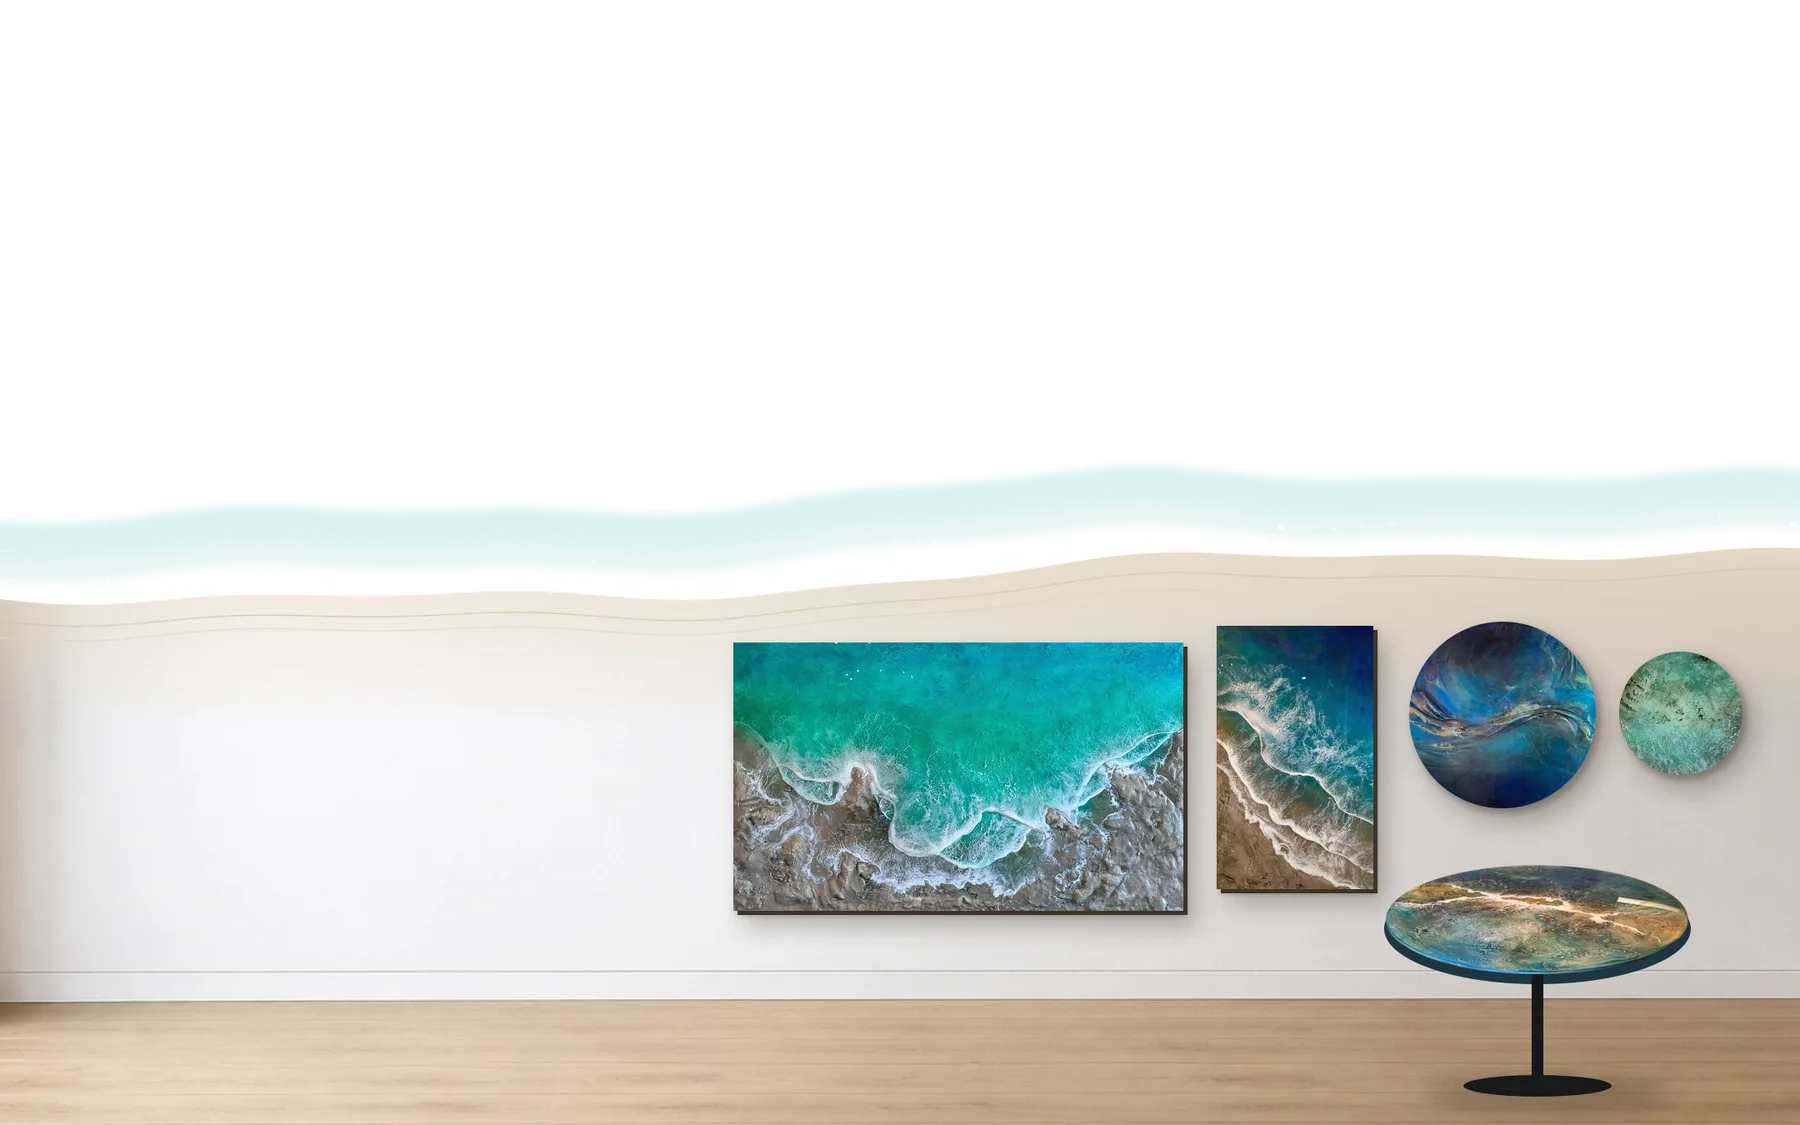
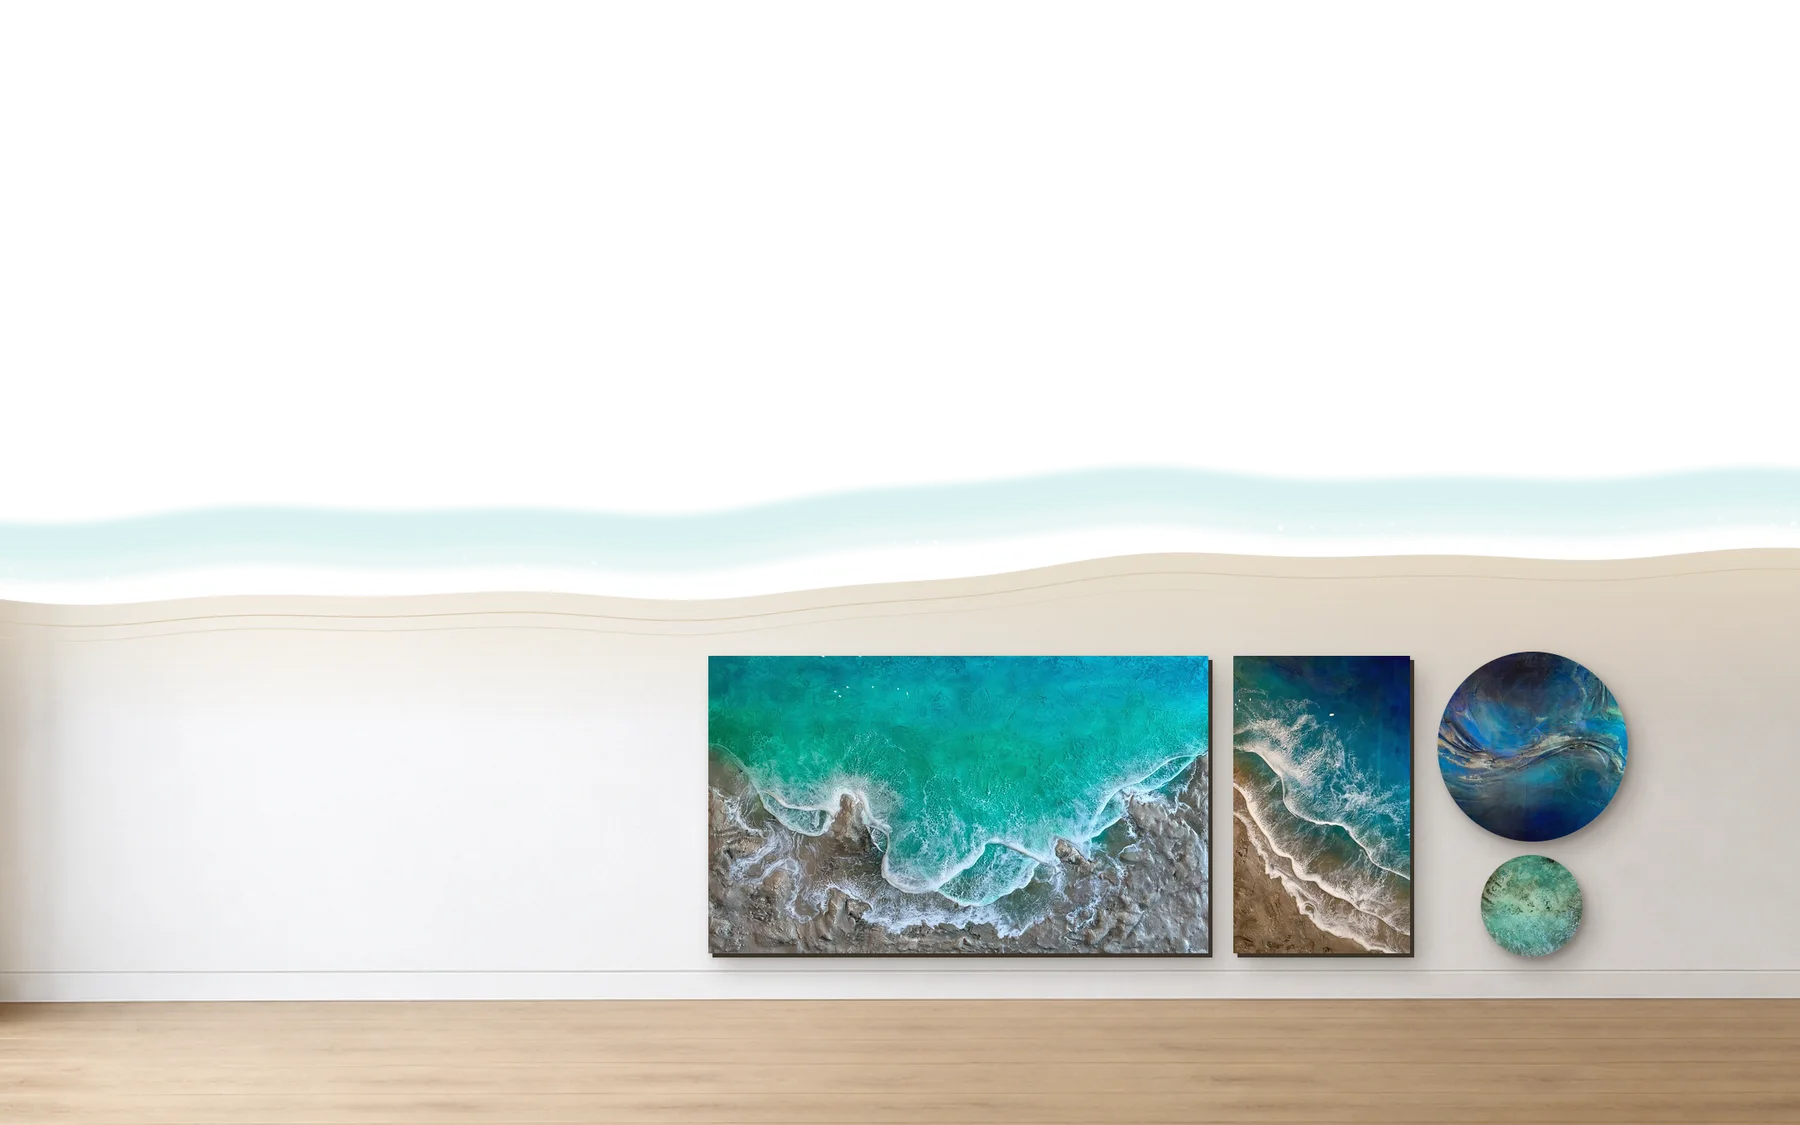
ヒーローからテーブルと帯を外して配置を調整

Changed region(s): [[0.3733, 0.5289, 0.9956, 0.9956]]

diff --git a/assets/css/style.css b/assets/css/style.css
@@ -26,10 +26,8 @@ img{display:block;max-width:100%;height:auto}a{color:inherit;text-decoration:non
 .hero__t1{position:absolute;left:5vw;top:7.4vw;color:#fff;animation:up 1.2s .4s both}
 .hero h1{font-size:clamp(12px,1.04vw,18px);letter-spacing:.1em;line-height:1.5;margin-bottom:.9vw}
 .hero__copy{font-size:clamp(28px,3.06vw,56px);font-weight:600;line-height:1.3;letter-spacing:.07em}
-.hero__t2{position:absolute;left:5vw;top:34.5vw;animation:up 1.2s 1.1s both}
-.hero__tag{display:inline-flex;align-items:center;gap:.8vw;background:#fff;color:var(--teal);padding:.55vw 2vw .55vw 1.4vw;font-size:clamp(14px,1.39vw,24px);font-weight:600;letter-spacing:.1em;line-height:1.6}
-.hero__tag span{width:0;height:0;border-left:1.3vw solid var(--teal);border-top:.85vw solid transparent;border-bottom:.85vw solid transparent}
-.hero__copy2{font-size:clamp(22px,2.36vw,42px);font-weight:600;line-height:1.42;letter-spacing:.08em;margin-top:1.6vw}
+.hero__t2{position:absolute;left:5vw;top:38vw;animation:up 1.2s 1.1s both}
+.hero__copy2{font-size:clamp(22px,2.5vw,44px);font-weight:600;line-height:1.44;letter-spacing:.08em}
 .hero__lead{font-size:clamp(11.5px,.98vw,17px);line-height:1.78;margin:.9vw 0 1.3vw}
 .btn--hero{background:var(--teal);color:#fff;min-width:200px}.btn--hero:hover{background:var(--deep);border-color:var(--deep);color:#fff}
 .hd .logo{color:#fff}.nav{color:#fff}.nav .btn{background:#fff0;border-color:#fff;color:#fff}.nav .btn:hover{background:#fff;color:var(--teal)}
@@ -76,7 +74,7 @@ figure{margin:0}figcaption{font:500 12px/2 var(--en);letter-spacing:.27em;color:
   .hd{padding:24px 24px 0}.logo b{font-size:24px}.burger{display:block;position:relative;z-index:40}
   .nav{position:fixed;inset:0;background:#fffffff5;flex-direction:column;justify-content:center;gap:26px;font-size:16px;opacity:0;visibility:hidden;transition:opacity .3s;z-index:30}.nav.is-open{opacity:1;visibility:visible}
   .burger[aria-expanded=true] span{background:var(--deep)}.burger[aria-expanded=true] span:first-child{transform:translateY(5px) rotate(20deg)}.burger[aria-expanded=true] span:last-child{transform:translateY(-5px) rotate(-20deg)}
-  .sp{display:inline}.hero{height:218vw;min-height:0}.hero__t1{left:24px;top:20vw}.hero h1{font-size:12.5px;margin-bottom:6px}.hero__copy{font-size:min(5.6vw,22px);letter-spacing:.02em;white-space:nowrap}.hero__t2{left:24px;right:24px;top:87.5vw;bottom:4vw;display:flex;flex-direction:column;align-items:flex-start}.hero__tag{gap:10px;font-size:16px;padding:6px 22px 6px 16px}.hero__tag span{border-left-width:14px;border-top-width:9px;border-bottom-width:9px}.hero__copy2{font-size:min(5.6vw,22px);letter-spacing:.03em;margin-top:10px;white-space:nowrap}.hero__lead{display:none}.btn--hero{margin-top:auto;width:100%}.nav{color:var(--ink)}.nav .btn{border-color:var(--teal);color:var(--teal)}
+  .sp{display:inline}.hero{height:218vw;min-height:0}.hero__t1{left:24px;top:20vw}.hero h1{font-size:12.5px;margin-bottom:6px}.hero__copy{font-size:min(5.6vw,22px);letter-spacing:.02em;white-space:nowrap}.hero__t2{left:24px;right:24px;top:89vw;bottom:4vw;display:flex;flex-direction:column;align-items:flex-start}.hero__copy2{font-size:min(5.1vw,20px);letter-spacing:.02em;white-space:nowrap}.hero__lead{display:none}.btn--hero{margin-top:auto;width:100%}.nav{color:var(--ink)}.nav .btn{border-color:var(--teal);color:var(--teal)}
   .vhead{position:static;writing-mode:horizontal-tb;font-size:24px;letter-spacing:.1em;line-height:1.5}.vhead span{position:static;display:block;font-size:11px;margin-top:4px}
   .about__body br,.hero__lead br{display:none}.about{display:flex;flex-direction:column;align-items:stretch;gap:24px;padding:60px 24px 90px}.about .vhead{order:-1}.about img{height:300px}.about__body .btn{width:100%}
   .gallery{padding:0 0 30px;display:flex;flex-direction:column;gap:20px}.gallery .vhead{order:-1;padding:30px 24px 0}.gallery__wrap{width:100%}.loop img{width:170px;height:150px}

diff --git a/index.html b/index.html
@@ -9,7 +9,7 @@
 <link rel="preconnect" href="https://fonts.googleapis.com">
 <link rel="preconnect" href="https://fonts.gstatic.com" crossorigin>
 <link rel="stylesheet" href="https://fonts.googleapis.com/css2?family=Shippori+Mincho:wght@500;600&family=Cormorant+Garamond:wght@500;600&display=swap">
-<link rel="stylesheet" href="assets/css/style.css?v=6">
+<link rel="stylesheet" href="assets/css/style.css?v=7">
 </head>
 <body>
 <header class="hd" id="top">
@@ -28,14 +28,13 @@
 <main>
 <section class="hero">
   <picture><source media="(max-width:900px)" srcset="assets/img/h3-sea-sp.webp"><img class="hero__bg" src="assets/img/h3-sea.webp" alt="明るい水色の沖縄の海" width="2160" height="1350"></picture>
-  <picture><source media="(max-width:900px)" srcset="assets/img/h3-layer-sp.webp"><img class="hero__layer" src="assets/img/h3-layer.webp" alt="波打ち際の先の白い壁に飾った海のレジンアートの作品と、海のレジンテーブル" width="2160" height="1350"></picture>
+  <picture><source media="(max-width:900px)" srcset="assets/img/h3-layer-sp.webp?v=3"><img class="hero__layer" src="assets/img/h3-layer.webp?v=3" alt="波打ち際の先の白い壁に飾った、海のレジンアートの作品" width="2160" height="1350"></picture>
   <div class="hero__t1">
     <h1>海のレジンアート販売｜沖縄のアトリエ</h1>
     <p class="hero__copy">まるで、そこに海があるように。</p>
   </div>
   <div class="hero__t2">
-    <p class="hero__tag"><span aria-hidden="true"></span>これがレジンアート</p>
-    <p class="hero__copy2">沖縄の海を、<br class="pc">壁とテーブルに。</p>
+    <p class="hero__copy2">沖縄の海を、<br class="pc">部屋に飾るアートに。</p>
     <p class="hero__lead">家具職人歴17年以上の手で、美しい海や<br>砂浜、サンゴ礁を立体で表現しています。<br>見る人に、いやしと感動的な非日常空間を。</p>
     <a class="btn btn--hero" href="#works">作品を見る</a>
   </div>
